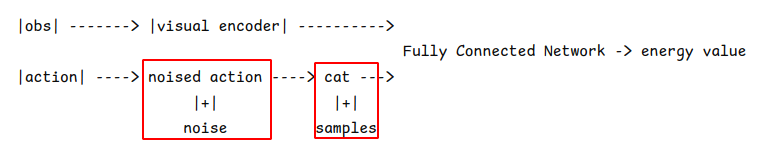
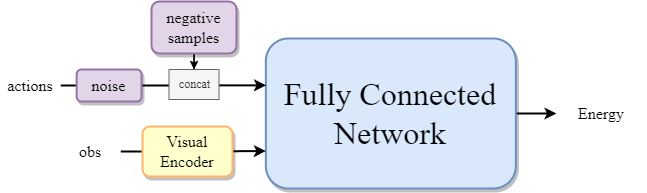
update IBC.md

diff --git a/documents/experiments.md b/documents/experiments.md
@@ -87,12 +87,12 @@
 
 ## ADDITIONAL PARAMETERS
 
-### Implicit Behavioral Cloning
+### 
 
-|           | name           | definition | value |
-| --------- | -------------- | ---------- | ----- |
-| optimizer | pred_n_iter    |            | 100   |
-|           | pred_n_samples |            | 100   |
+|      |      |      |      |
+| ---- | ---- | ---- | ---- |
+|      |      |      |      |
+|      |      |      |      |
 
 ## TESTING DETAILS
 
@@ -125,6 +125,13 @@ Every 5 epochs do one time of train action pred MSE calculation.
 $MSE = \frac{1}{n} \sum_{i=1}^{n} (a_i - \hat{a}_i)^2$ Here, $a_i$ represents i-dim of original action, $\hat{a}_i$ denotes i-dim of predicted action.
 
 ### :rocket: Square
+
+**Additional parameters in IBC when doing testing**
+
+|           | name           | definition | value |
+| --------- | -------------- | ---------- | ----- |
+| optimizer | pred_n_iter    |            | 100   |
+|           | pred_n_samples |            | 100   |
 
 <div align="center">
     <img src="assets/ACT_vs_DP_action_MSE.png" />

diff --git a/documents/IBC.md b/documents/IBC.md
@@ -296,6 +296,14 @@ def forward(self, obs, action):
 
 ## Training
 
+The training process is shown in the network architecture image. In details, the negative samples are related to its original action sequence min and max value.
+
+$Loss=\sum^B_{j=1}\sum^N_{i=1}{-\log(p_{\theta}(A_i|O_i,\{\widehat{A}_i^j\}^{N_{neg}}_{j=1}))}$ 
+
+$p_{\theta}(A_i|O_i,\{\widehat{A}_i^j\}^{N_{neg}}_{j=1})=\frac{\exp{-E_{\theta}(O_i,A_i)}}{\exp{-E_{\theta}(O_i,A_i)}+\sum^{N_{neg}}_{j=1}{\exp{-E_{\theta}(O_i,\widehat{A}_i^j)}}}$
+
+$E_{\theta}(O_t, A_t)$ denotes energy predictor; $N$ is the number of the overall samples. $B$ is batch size.
+
 ```python
 def compute_loss(self, batch):
     # normalize input
